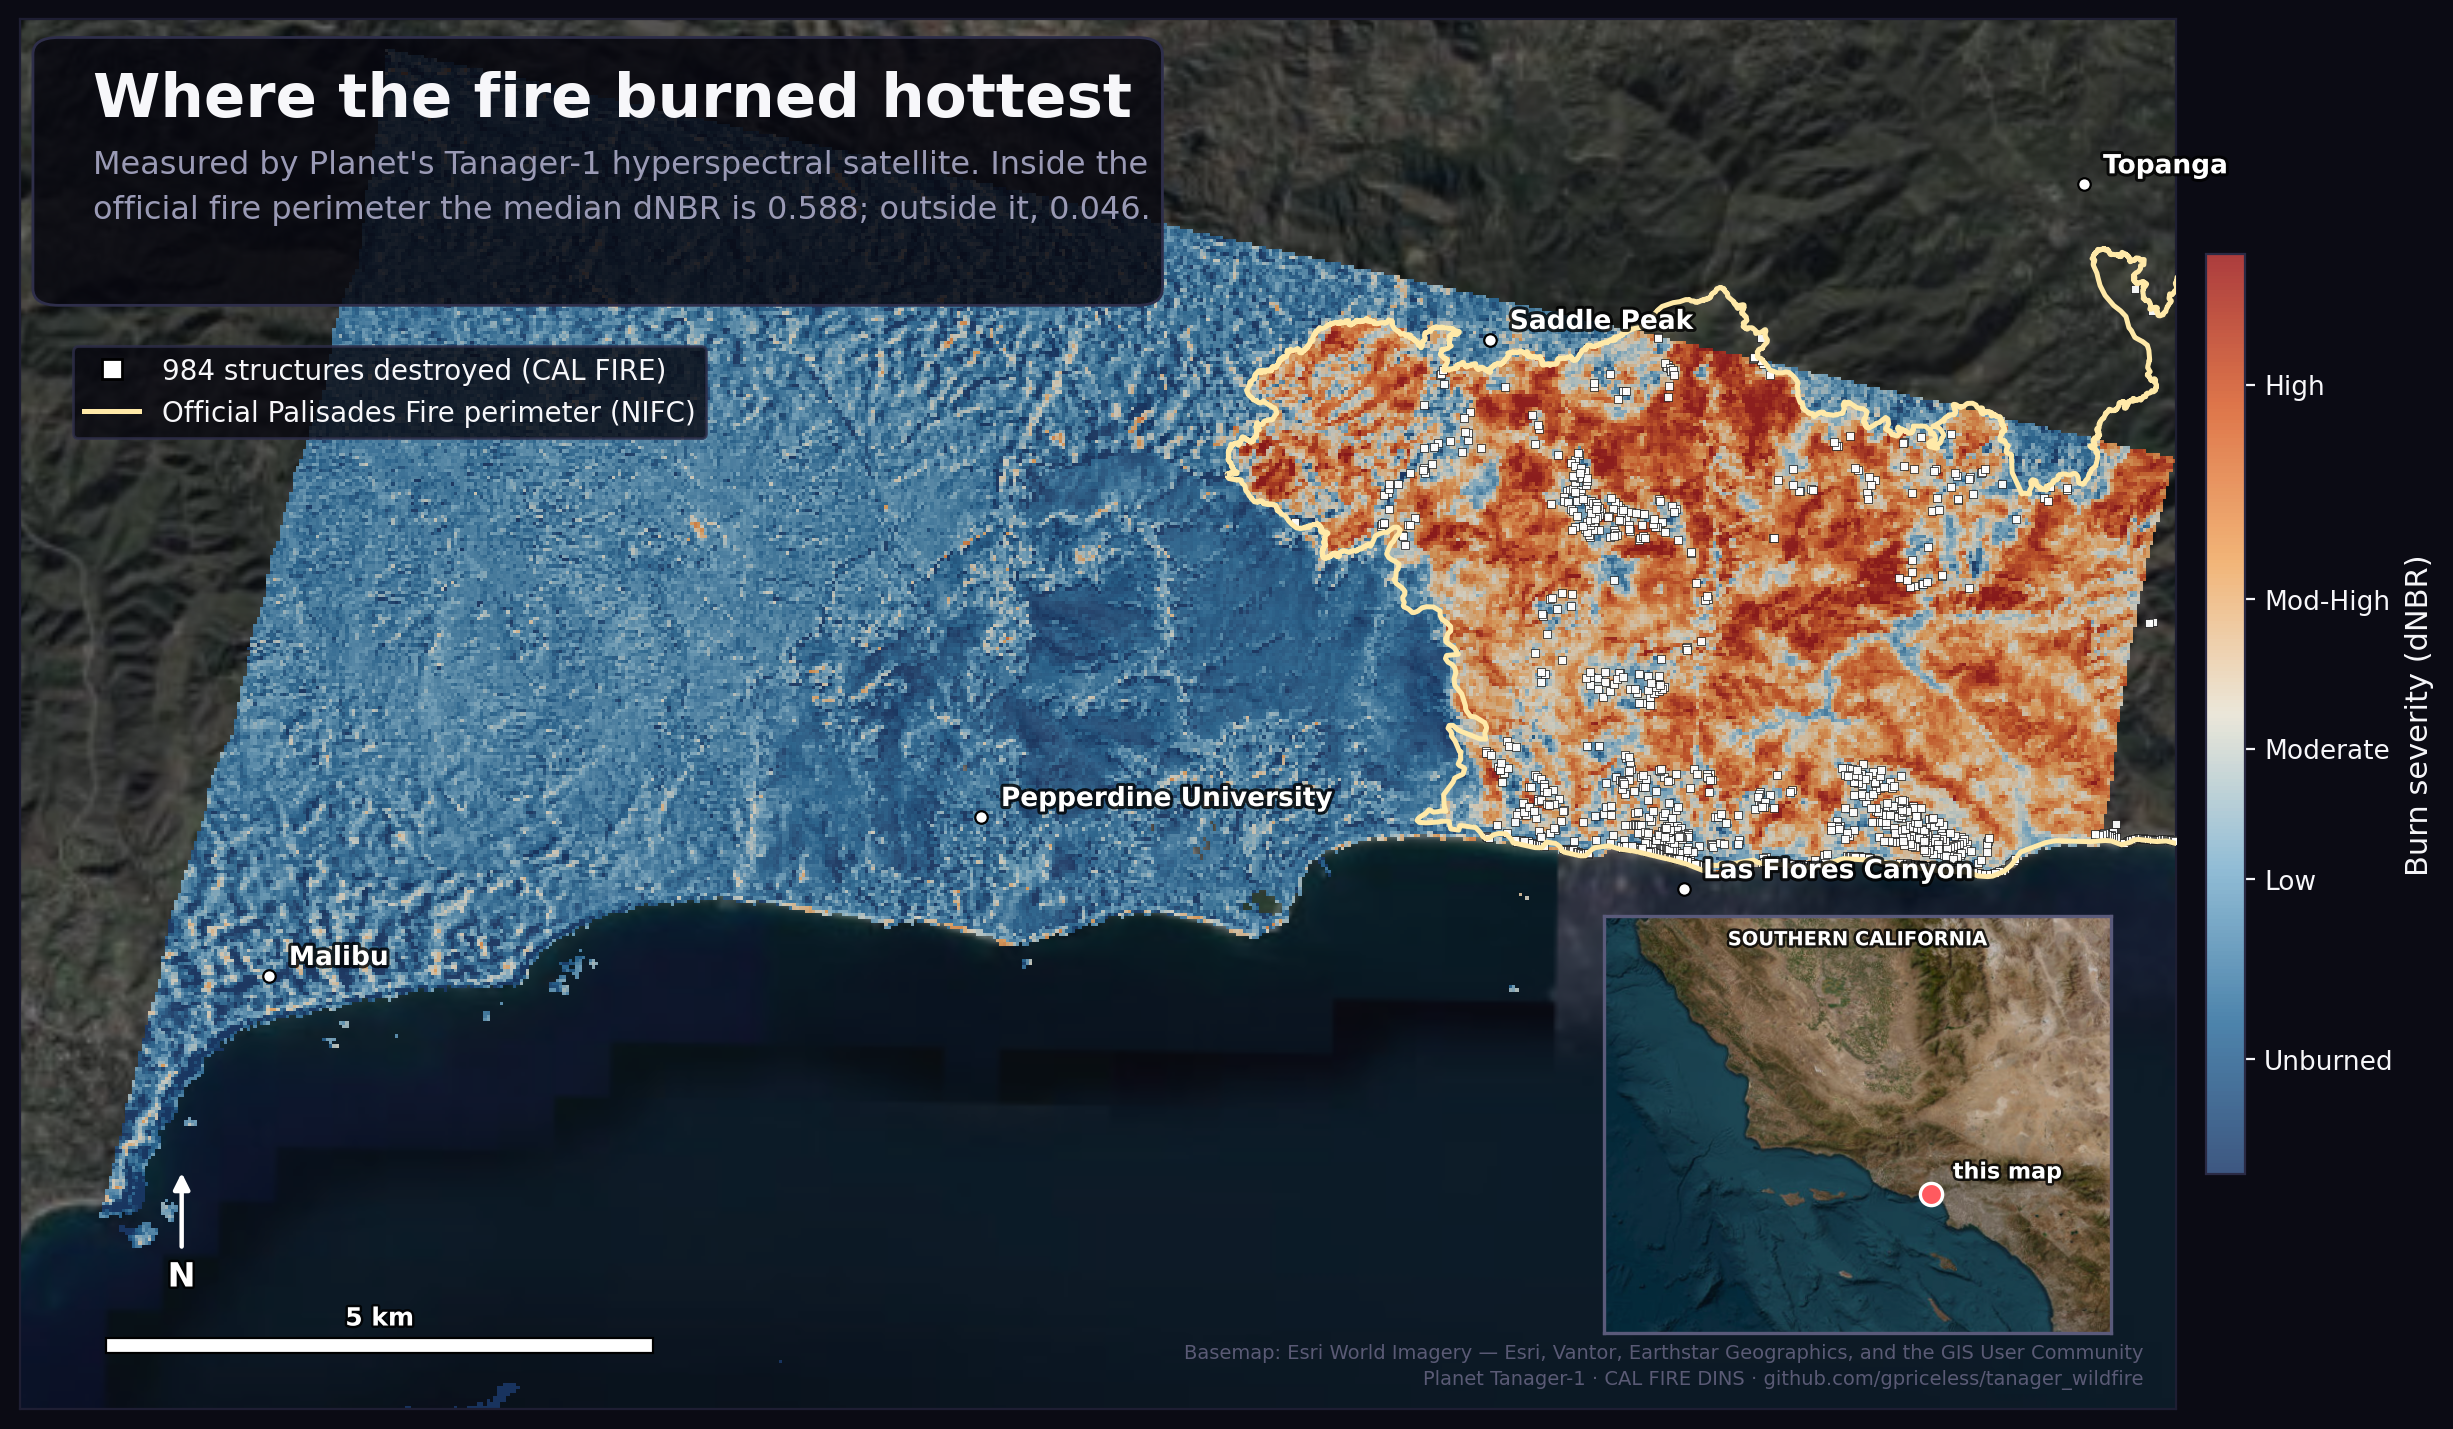
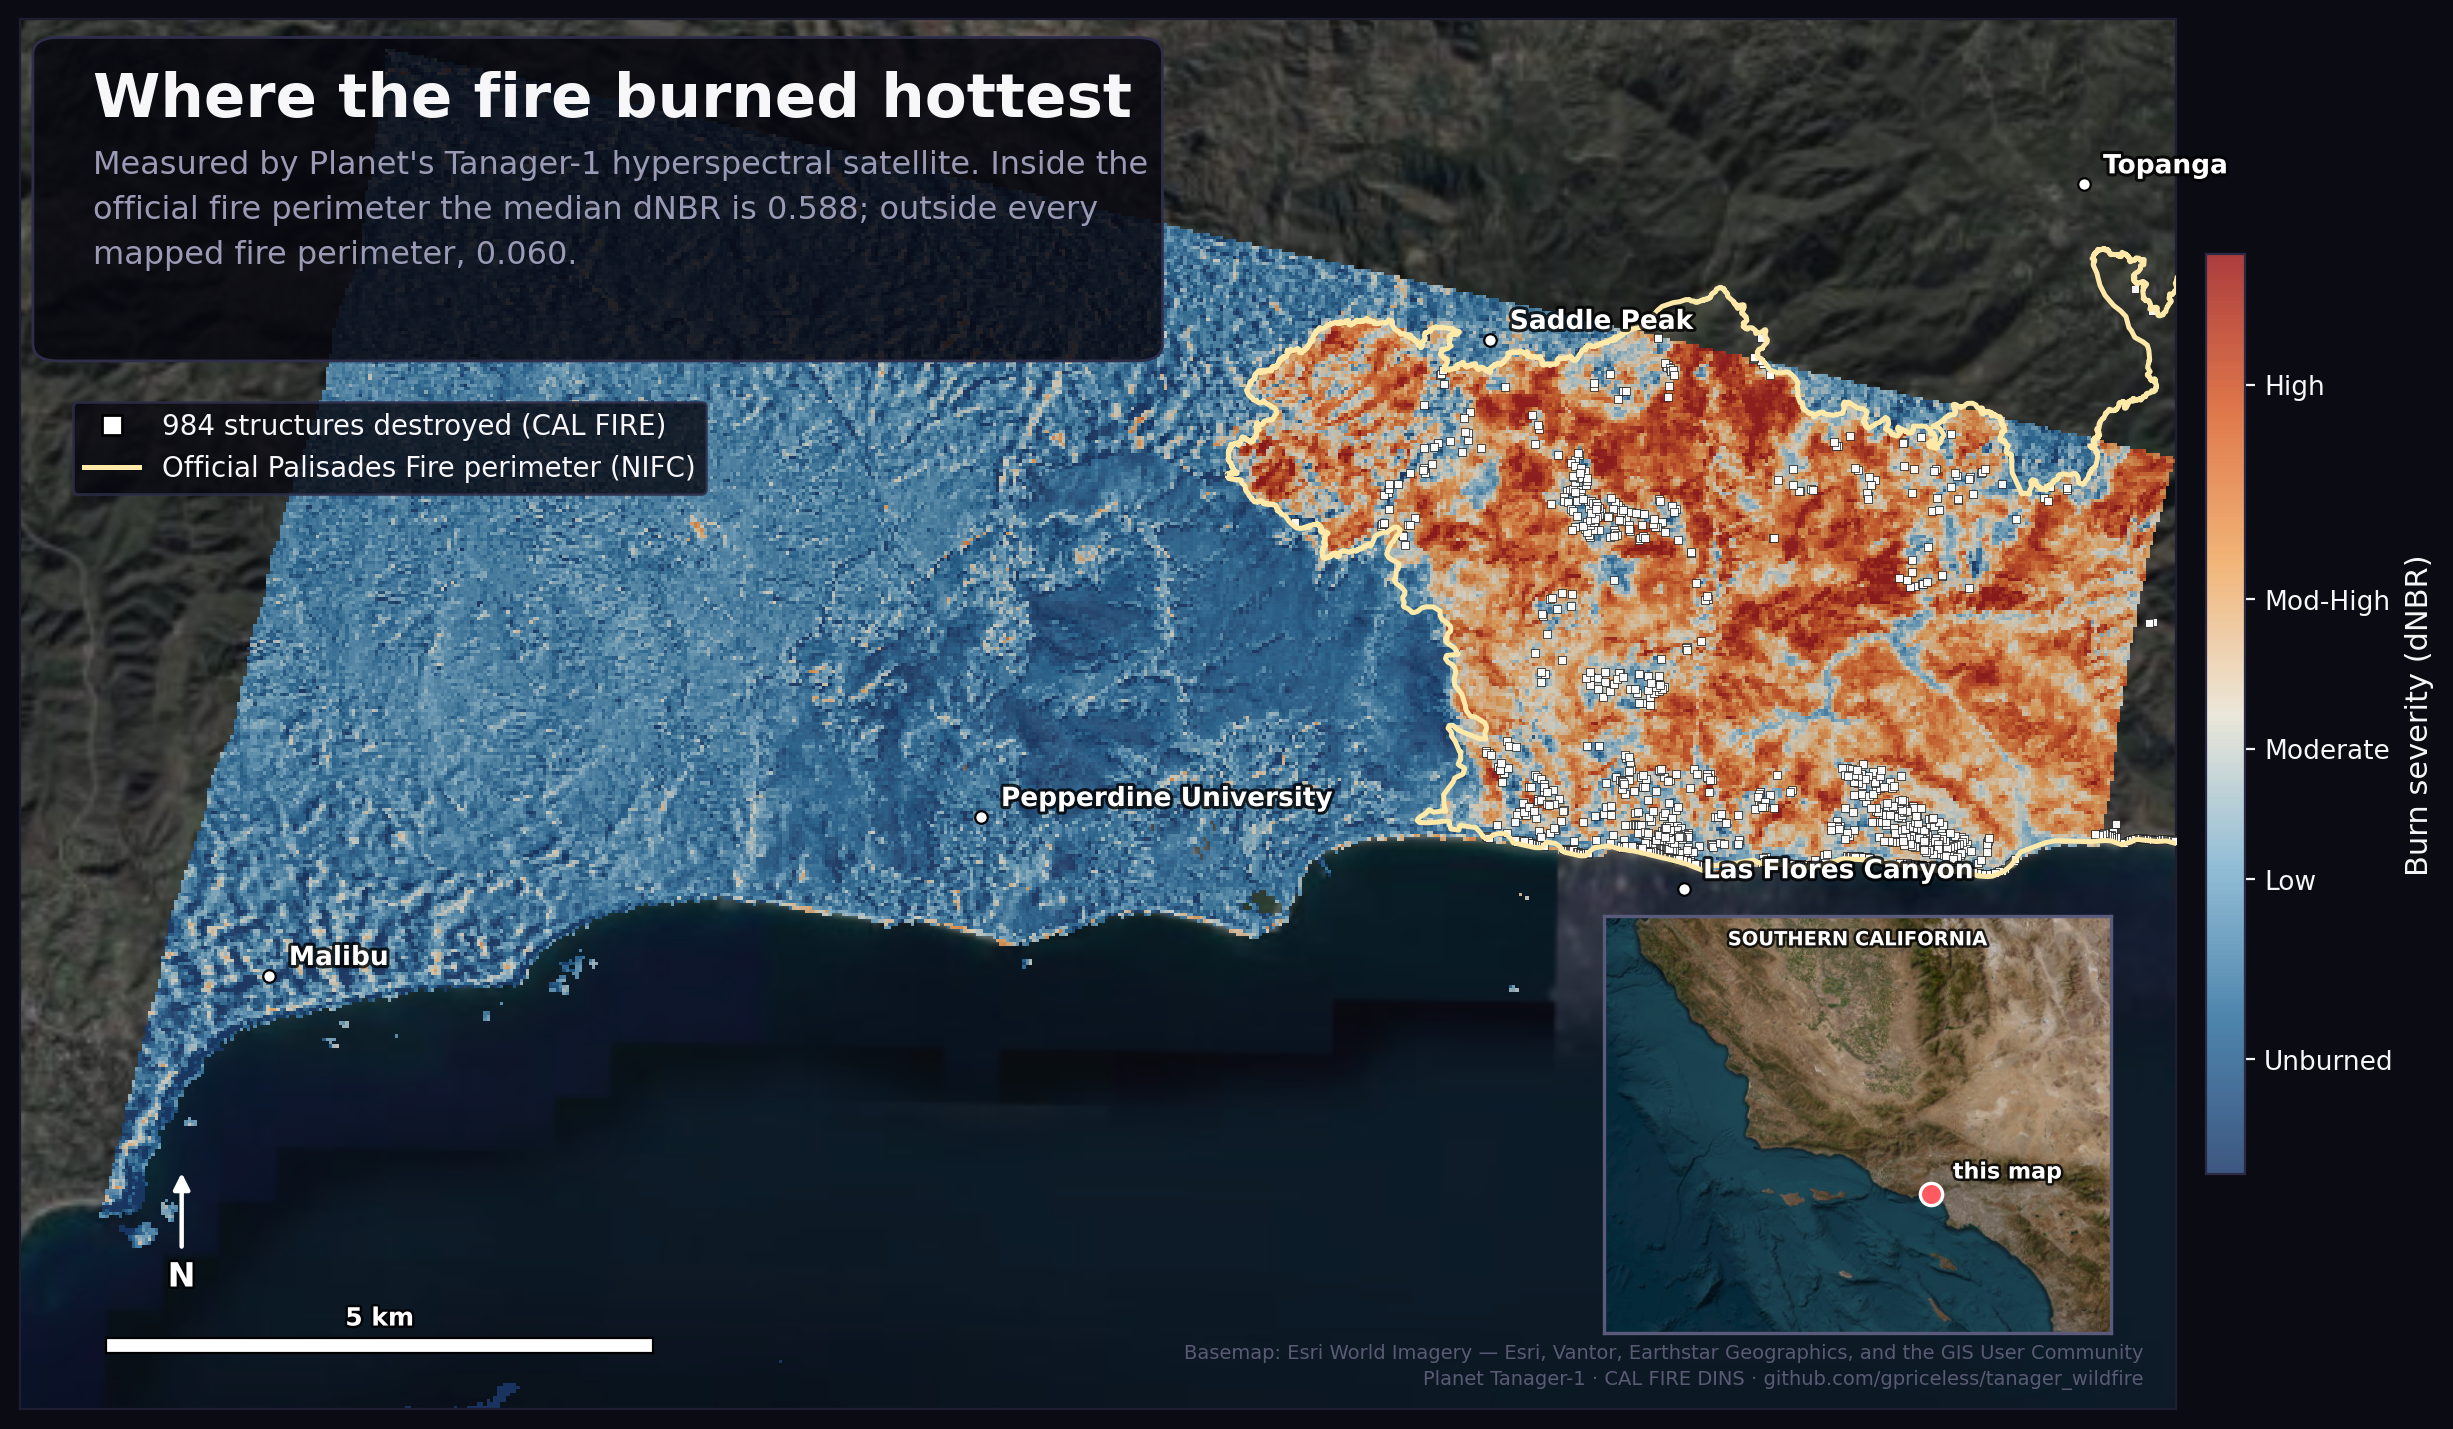
fix(figures): quote dNBR outside every mapped perimeter on the hero map
The caption said 0.046 "outside" the perimeter. That value is land
outside the Palisades perimeter only, which counts the Franklin scar as
unburned. Land outside every mapped perimeter has median 0.060, which is
the comparison the caption is making. The legend moves down to clear the
taller headline plate.

Changed region(s): [[0.0, 0.2155, 0.4957, 0.3695], [0.031, 0.154, 0.2479, 0.1847], [0.4028, 0.1232, 0.4647, 0.154]]

diff --git a/scripts/generate_social_figures.py b/scripts/generate_social_figures.py
@@ -159,7 +159,8 @@ def fig_hero_severity() -> None:
     sb.headline(
         ax, "Where the fire burned hottest",
         "Measured by Planet's Tanager-1 hyperspectral satellite. Inside the\n"
-        "official fire perimeter the median dNBR is 0.588; outside it, 0.046.",
+        "official fire perimeter the median dNBR is 0.588; outside every\n"
+        "mapped fire perimeter, 0.060.",
         title_size=22, width=0.50,
     )
 
@@ -181,7 +182,7 @@ def fig_hero_severity() -> None:
         ],
         loc="upper left", frameon=True, facecolor="#07070fe6",
         edgecolor="#2e2e4a", fontsize=10, labelcolor=sb.TEXT_COLOR,
-        bbox_to_anchor=(0.018, 0.775),  # just under the headline plate
+        bbox_to_anchor=(0.018, 0.735),  # just under the headline plate
     )
 
     sb.credit(ax, basemap=True, dins=True)

diff --git a/scripts/social_base.py b/scripts/social_base.py
@@ -171,8 +171,8 @@ def load_perimeters() -> "object":
     Fetched by ``scripts/fetch_fire_perimeters.py``. These are the independent
     reference that confirms what each product is showing: char fraction
     averages 0.490 inside the Franklin perimeter against 0.047 outside, and
-    dNBR runs at median 0.588 inside the Palisades perimeter against 0.046
-    outside.
+    dNBR runs at median 0.588 inside the Palisades perimeter against 0.060
+    on land outside every perimeter.
     """
     import geopandas as gpd
 
